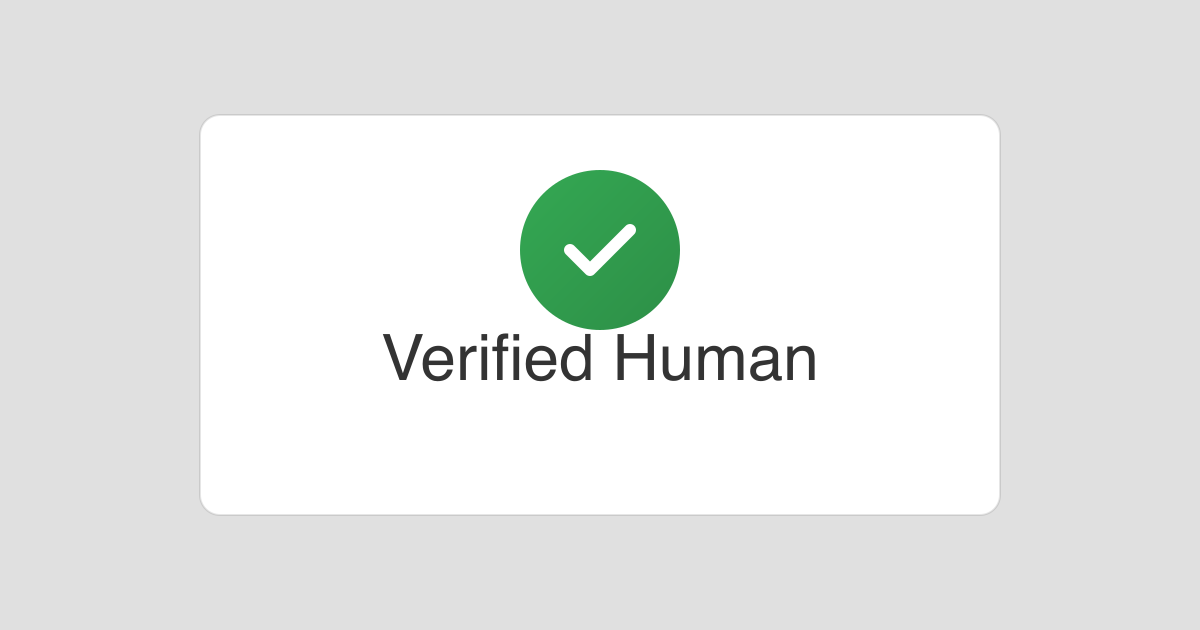
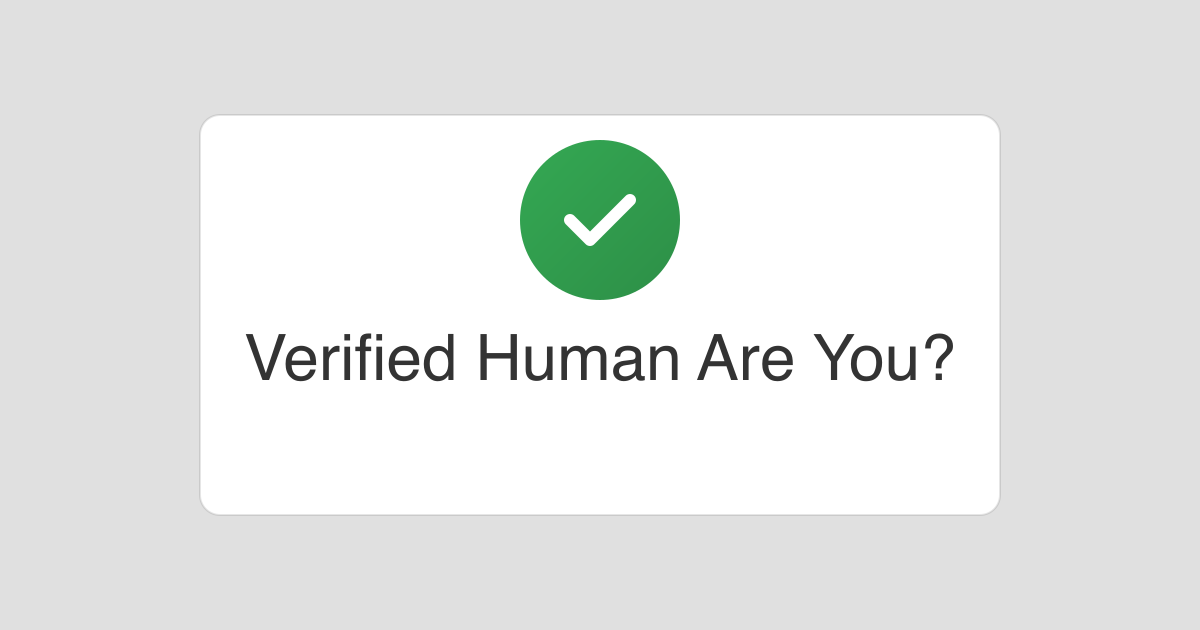
Move lozenge further down, update badge with more spacing and 'Are You?' text

Changed region(s): [[0.185, 0.2111, 0.8017, 0.6032]]

diff --git a/index.html b/index.html
@@ -47,7 +47,7 @@
             align-items: flex-start;
             min-height: 100vh;
             padding: 20px;
-            padding-top: 20vh;
+            padding-top: 30vh;
             margin: 0;
         }
 
